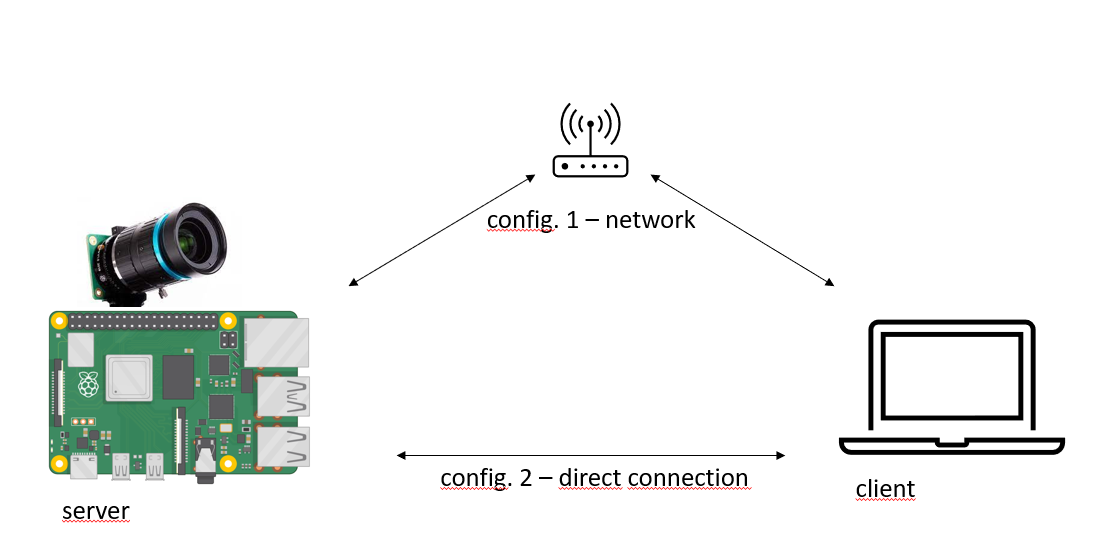
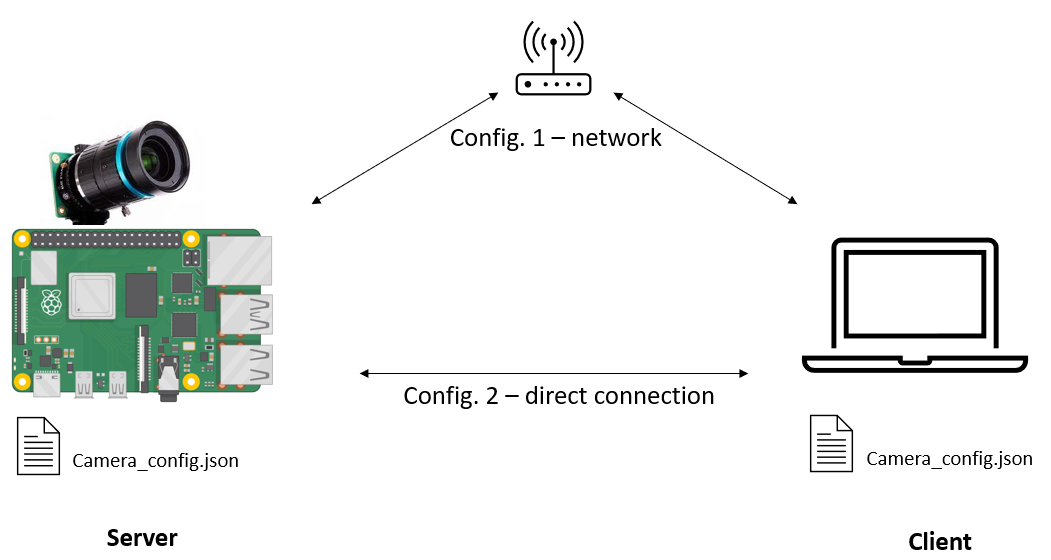
updated

diff --git a/Computer/camera_pc.py b/Computer/camera_pc.py
@@ -12,7 +12,8 @@ import json
 # page 29 Search: "Y plane"
 
 class pi_udp_camera_pc:
-    def __init__(self, IP='141.100.109.17', Port=8123, camera_modus='91'):
+    def __init__(self, IP='141.100.109.17', Port=8123, camera_config_file='camera_config_HQ.json',
+                 camera_modus='91', calibrated_camera=False):
         self.IP = IP
         self.Port = Port
         self.client_socket = socket.socket(socket.AF_INET, socket.SOCK_STREAM)
@@ -21,27 +22,32 @@ class pi_udp_camera_pc:
         print("communication with rpi initialized...")
         self.save_idx = 0
 
+        self.__init_camera_modi(camera_config_file, camera_modus)
+        self.calibrated_camera = calibrated_camera
+        if calibrated_camera:
+            self.__init_calibrated_camera()
+
+    def __init_camera_modi(self, camera_config_file, camera_modus):
+        # let camera know what modus to run in
         self.client_socket.sendall(camera_modus.encode())
         time.sleep(0.5)
-        self.init_camera_modi(camera_modus)
-        self.init_calibrated_camera()
 
-    def init_camera_modi(self, msg):
-        f = open("../Configuration/camera_config.json")
+        # locally initialize the camera modus
+        f = open('../Configuration/' + camera_config_file)
         data = json.load(f)
-        if msg == data['90']:
+        if camera_modus == '90':
             self.res = data['90']['res']
             self.forma = data['90']['forma']
             self.img_shape = data['90']['img_shape']
-        elif msg == data['91']:
+        elif camera_modus == '91':
             self.res = data['91']['res']
             self.forma = data['91']['forma']
             self.img_shape = data['91']['img_shape']
-        elif msg == data['92']:
-            self.res = data['92'].res
+        elif camera_modus == '92':
+            self.res = data['92']['res']
             self.forma = data['92']['forma']
             self.img_shape = data['92']['img_shape']
-        elif msg == data['93']:
+        elif camera_modus == '93':
             self.res = data['93']['res']
             self.forma = data['93']['forma']
             self.img_shape = data['93']['img_shape']
@@ -50,27 +56,36 @@ class pi_udp_camera_pc:
             self.forma = data['default']['forma']
             self.img_shape = data['default']['img_shape']
 
-    def get_img_stream(self):
-        # request image
+    def _get_img_stream(self):
+        # send request to get image ("1") to server.
+        # Server will answer with the byte count of the image encoded in to 4 byte
+        # After we know how many bytes the image has, we read data till we received the entire image
         msg = "1"
         self.client_socket.sendall(msg.encode())
-
         # get byte count of data to read
         data = self.rdFile.read(struct.calcsize('<L'))
         image_len = struct.unpack('<L', data)[0]
         if not image_len:
             return None
-
         # get data
         image_stream = self.rdFile.read(image_len)
         return image_stream
 
+    def get_image(self):
+        image_stream = self._get_img_stream()
+        numpy_img_bytes = np.frombuffer(image_stream, 'uint8')
+        if self.forma == 'YUV420':
+            numpy_img_bytes = numpy_img_bytes.reshape(self.img_shape)           # (1140, 1024)   # (2280, 2048)
+            img = cv2.cvtColor(numpy_img_bytes, cv2.COLOR_YUV420p2RGB)
+            img = img[0:self.res[1], 0:self.res[0], :]      # remove pixel without information (see: picamera2 yuv)
+        else:
+            raise NotImplemented("only yuv implemented yet")
+        return img
+
     def change_exposure(self):
-        msg = "2"
-        self.client_socket.sendall(msg.encode())
-        print("send shutter Speed:")
+        print("enter shutter Speed:")
         msg = input()
-        self.client_socket.sendall(msg.encode())
+        self.set_exposure(msg)
 
     def set_exposure(self, exp):
         msg = "2"
@@ -80,34 +95,41 @@ class pi_udp_camera_pc:
         self.client_socket.sendall(exp.encode())
         time.sleep(0.5)
 
-    def preview_img_yuv(self, checkerboard_detection=False):
-        image_stream = self.get_img_stream()
-        test = np.frombuffer(image_stream, 'uint8')
-        test = test.reshape(self.img_shape)           # (1140, 1024)   # (2280, 2048)
-        img = cv2.cvtColor(test, cv2.COLOR_YUV420p2RGB)
-        self.im = img.copy()
-        if checkerboard_detection:
-            img, rmat, self.tvecs = self.pose_estimation(img)
+    def preview_img(self, checkerboard_detection=False):
+        img = self.get_image()
+        self.im = img.copy()                            # deep copy of the file for saving
+        if checkerboard_detection and self.calibrated_camera:
+            img, self.rmat, self.tvecs = self._pose_estimation(img)
         im_resized = cv2.resize(img, (1014, 760))           # (760, 1014)    # (1520, 2028)
         cv2.imshow('Video', im_resized)
-        cv2.setMouseCallback('Video', self.click_event)
+        cv2.setMouseCallback('Video', self.__click_event)
         cv2.waitKey(1)
 
-    def click_event(self, event, x, y, flags, params):
+    def __click_event(self, event, x, y, flags, params):
         # checking for left mouse clicks
         if event == cv2.EVENT_LBUTTONDOWN:
-            pass
+            if self.tvecs is not None:
+                print("Transformation:")
+                H = np.eye(4)
+                H[0:3,0:3] = self.rmat
+                H[0:3, 3] = self.tvecs.squeeze()
+                with np.printoptions(precision=3, suppress=True):
+                    print(H)    # pretty-print
+            else:
+                print("no transformation available")
         # checking for right mouse clicks
         if event == cv2.EVENT_RBUTTONDOWN:
-            self.save_img()
+            self._save_img()
 
-    def save_img(self):
-        if self.tvecs[0] is not None:
+    def _save_img(self):
+        if self.tvecs is not None:
             im = Image.fromarray(self.im[:, :, ::-1])   # bgr <--> rgb
-            save_str = 'Img_data/img' + str(self.saveidx) + '.png'
+            save_str = 'Img_data/img' + str(self.save_idx) + '.png'
             self.save_idx += 1
             im.save(save_str, compress_level=0)
             print("Img saved")
+        else:
+            print("checkerboard not detected don't save img")
 
     def reconnect(self):
         try:
@@ -135,9 +157,9 @@ class pi_udp_camera_pc:
     def speed_test(self, count=50):
         dt = []
         t = time.perf_counter()
-        for i in range(cnt):
+        for i in range(count):
             print(i)
-            self.get_img_stream()
+            self._get_img_stream()
             dt.append((time.perf_counter() - t))
         elapsed = time.perf_counter() - t
         dt = np.array(dt)
@@ -147,9 +169,10 @@ class pi_udp_camera_pc:
         print("min dt: ", np.min(dt))
         print("max dt: ", np.max(dt))
         print("meadian dt: ", np.median(dt))
-        # elapsed = 41 seconds for 200 img --> 4.9 Images/sec.
+        # e.g. Img resolution (2028,1520) 50 img in 4.46 sec. --> 11.2fps
 
-    def init_calibrated_camera(self):
+
+    def __init_calibrated_camera(self):
         self.mtx = np.array([[5242, 0.0, 973],
                              [0.0, 5245, 808.5],
                              [0.0, 0.0, 1.0]])
@@ -158,7 +181,7 @@ class pi_udp_camera_pc:
                                                            R=None, newCameraMatrix=self.mtx,
                                                            size=self.res, m1type=5)
 
-    def draw(self, img, corners, imgpts):
+    def __draw(self, img, corners, imgpts):
         corner = tuple(corners[0].ravel())
         corner = (int(corner[0]), int(corner[1]))
         x_axis = tuple(imgpts[0].ravel())
@@ -172,7 +195,7 @@ class pi_udp_camera_pc:
         img = cv2.line(img, corner, x_axis, (0, 0, 255), 5)
         return img
 
-    def pose_estimation(self, img):
+    def _pose_estimation(self, img):
         board = (7, 4)  # board shape
         square_size = 15
         objp = np.zeros((board[1] * board[0], 3), np.float32)
@@ -193,14 +216,16 @@ class pi_udp_camera_pc:
             tvecs = tvecs[0]
             rmat = cv2.Rodrigues(rvecs)[0]
             imgpts, jac = cv2.projectPoints(axis, rvecs, tvecs, self.mtx, None)
-            img = self.draw(img, corners, imgpts)
+            img = self.__draw(img, corners, imgpts)
         return img, rmat, tvecs
 
 
 if __name__ == '__main__':
     IP = '169.254.148.62'
-    myCam = pi_udp_camera_pc(IP, camera_modus='91')
-    myCam.speed_test(cnt=50)
+    Port = 8123
+    myCam = pi_udp_camera_pc(IP=IP, Port=Port, camera_config_file='camera_config_HQ.json',
+                     camera_modus='91', calibrated_camera=True)
+    myCam.speed_test(count=50)
 
     myCam.set_exposure(50000)        # 50000 => 20Hz
     cnt = 0
@@ -209,7 +234,9 @@ if __name__ == '__main__':
         try:
             # myCam.change_exposure()
             # myCam.set_exposure(20000)
-            myCam.preview_img_yuv(checkerboard_detection=True)
+            # myCam.get_image()
+            myCam.preview_img(checkerboard_detection=True)
+
             cnt += 1
             elapsed = time.perf_counter() - t
 

diff --git a/RaspberryPi/camera_rpi.py b/RaspberryPi/camera_rpi.py
@@ -6,7 +6,8 @@ from picamera2 import Picamera2
 
 
 class pi_udp_camera_rpi:
-    def __init__(self):
+    def __init__(self, camera_config_file='camera_config_HQ.json'):
+        self.camera_config_file = camera_config_file
         self.open_server_connection()
         self.camera_main_loop()
 
@@ -23,7 +24,7 @@ class pi_udp_camera_rpi:
     def camera_main_loop(self):
         while True:
             camera_modus = self.receive_cmd()
-            print(camera_modus)
+            print('camera modus: ', camera_modus)
             self.picam2 = self.camera_setup(camera_modus)
             try:
                 while True:
@@ -67,19 +68,18 @@ class pi_udp_camera_rpi:
 
     def camera_setup(self, camera_modus='91'):
         picam2 = Picamera2()
-        f = open("../Configuration/camera_config.json")
+        f = open('../Configuration/' + self.camera_config_file)
         data = json.load(f)
-        print("asdf")
-        if camera_modus == data['90']:
+        if camera_modus == '90':
             res = data['90']['res']
             forma = data['90']['forma']
-        elif camera_modus == data['91']:
+        elif camera_modus == '91':
             res = data['91']['res']
             forma = data['91']['forma']
-        elif camera_modus == data['92']:
+        elif camera_modus == '92':
             res = data['92']['res']
             forma = data['92']['forma']
-        elif camera_modus == data['93']:
+        elif camera_modus == '93':
             res = data['93']['res']
             forma = data['93']['forma']
         else:

diff --git a/README.md b/README.md
@@ -1,14 +1,19 @@
 # Raspberry Pi Camera as UDP Camera
-A server client application to use a raspberry pi with an attached CSI-camera as udp camera. A basic interface between the computer and the raspberry pi is provided to setup the camera-mode and control the exposure time. By that the raspberry pi+camera can be used in headless mode (without a display).
+A server client application to use a raspberry pi with an attached CSI-camera as udp camera. A basic interface between the computer and the raspberry pi is provided to setup the camera-mode (resolution, binning, image format, ...) and control the exposure time. This Project allows to use the raspberry pi + camera to be used in headless mode by controlling it from an external device (computer).
 
 The Application is used to acquire mostly uncompressed images, depending on network speed and chosen image resolution the framerate might be rather low.
+
 ![](Doc/Overview.png)
 
 ### Steps to start
-
 - clone repo to raspberry pi and install requirements
 - clone repo to computer and install requirements
 - configure camera_config.json for the used camera (basic Hq camera provided)
 - identify rpi ip address
 - run camera_rpi.py on Server (RPI)
 - run camera_pc.py on Client (Computer)
+
+### Troubleshooting
+- server and client should be able to ping eachother
+- camera_config.py has to be identical in the server and client project
+- the rpi has to be configured to work in headless mode (without monitor)
